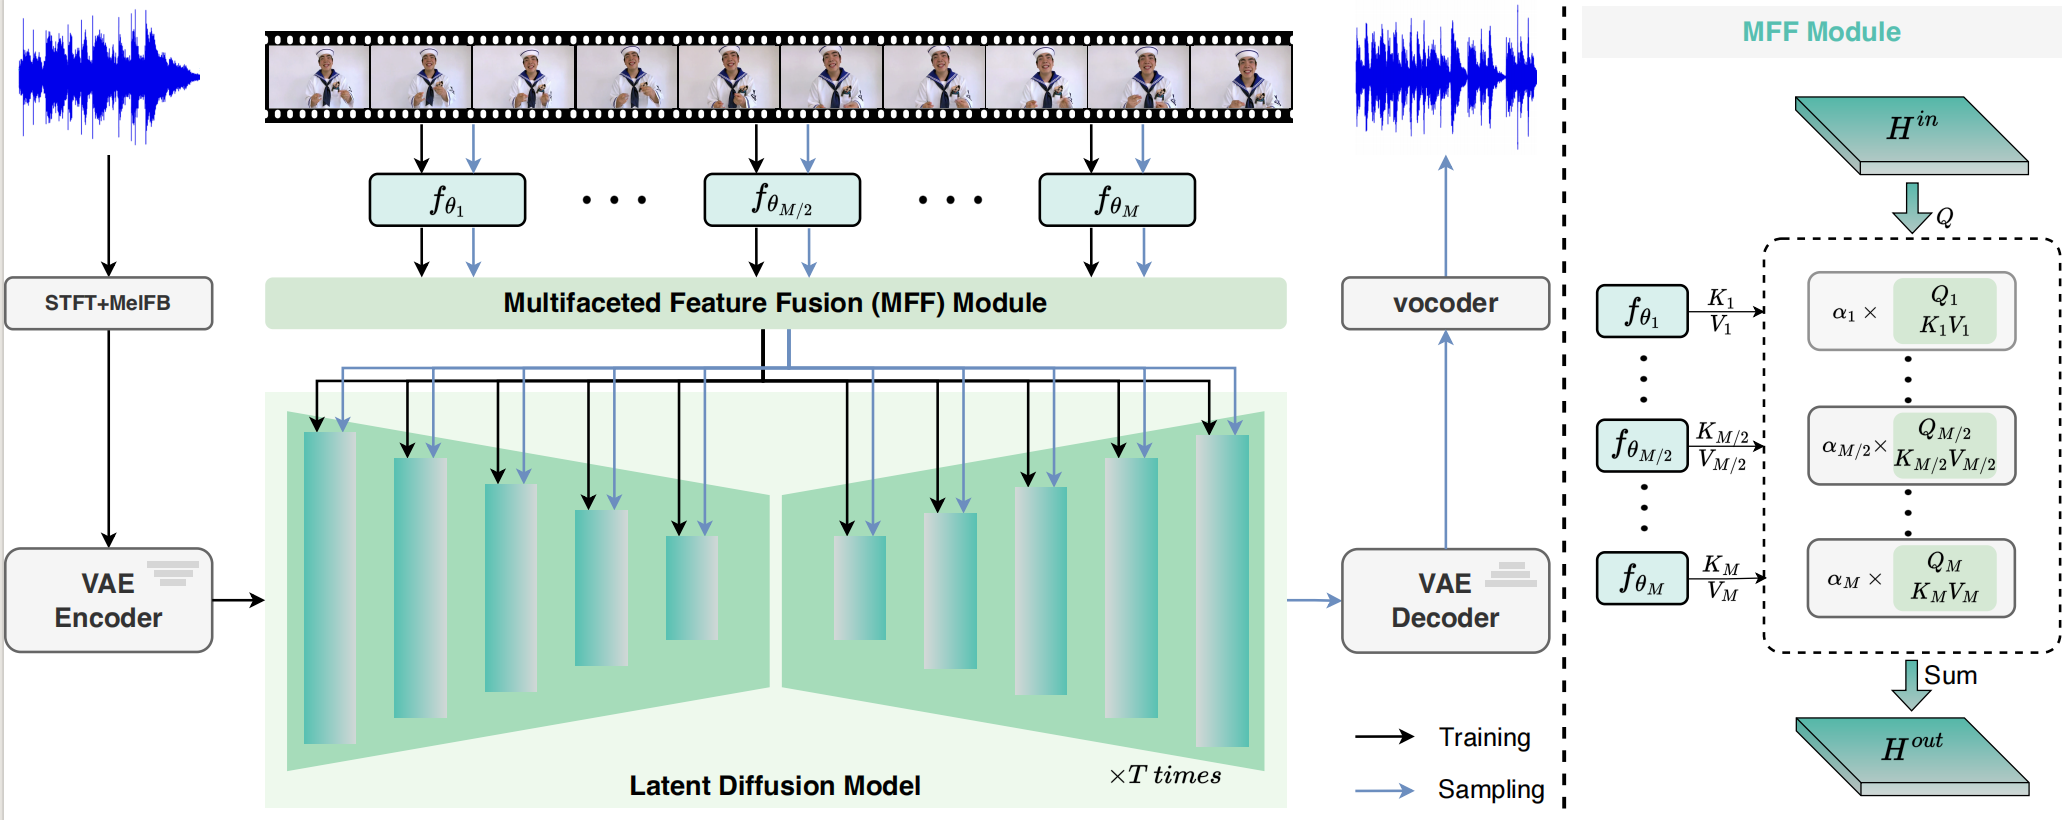
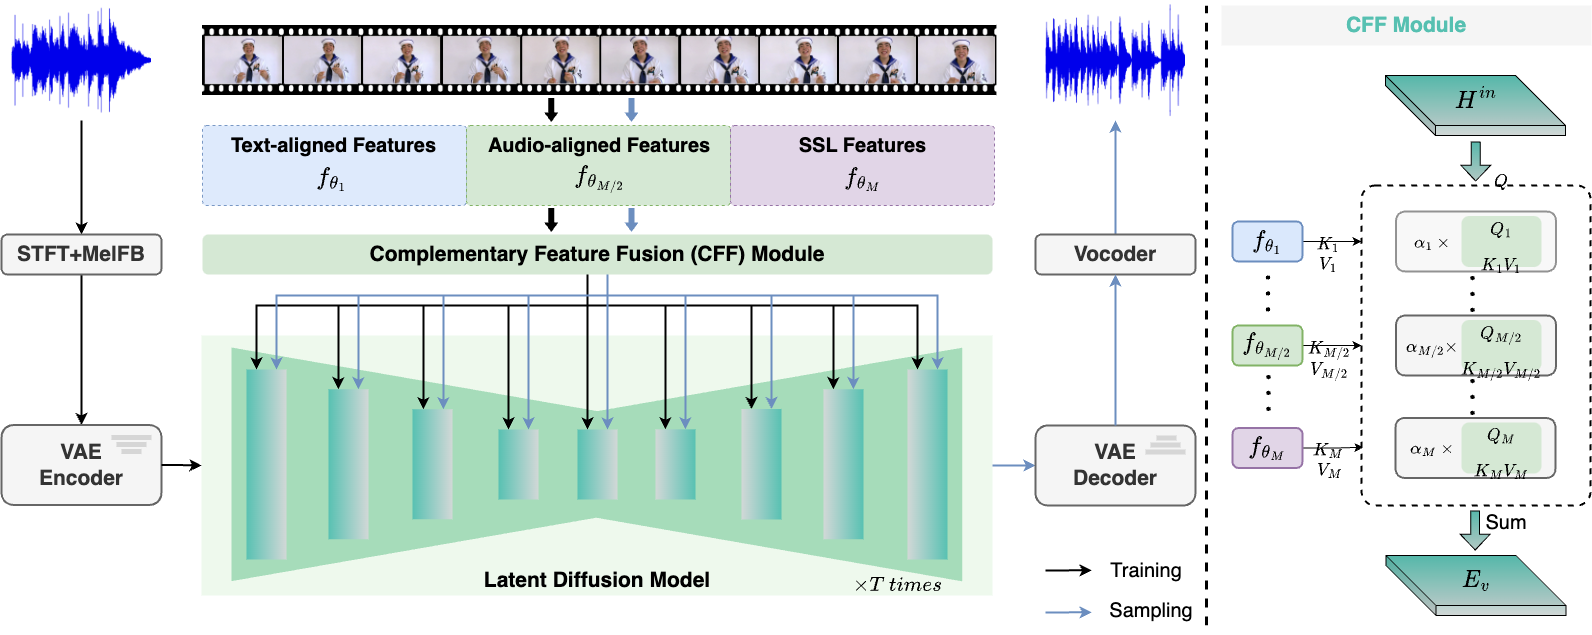
ComplementaryV2A

diff --git a/index.html b/index.html
@@ -2,7 +2,7 @@
 <!-- saved from url=(0029)https://dreambooth.github.io/ -->
 <html><head><meta http-equiv="Content-Type" content="text/html; charset=UTF-8">
 
-<title>MF-V2A</title>
+<title>ComplementaryV2A</title>
 <link href="./mffoley/style.css" rel="stylesheet">
 </head>
 
